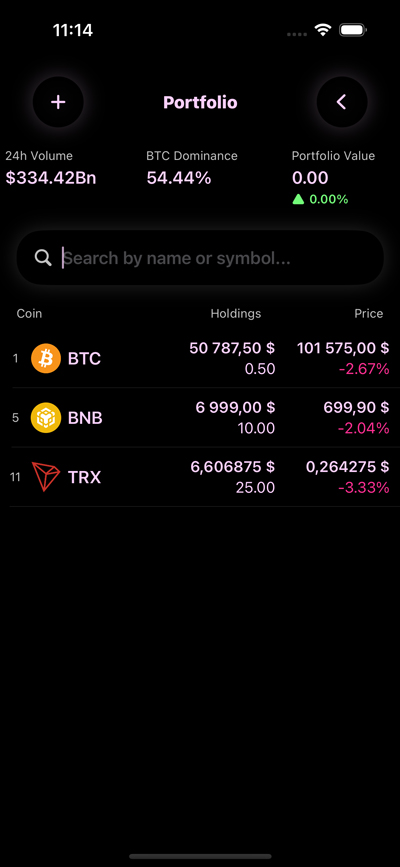
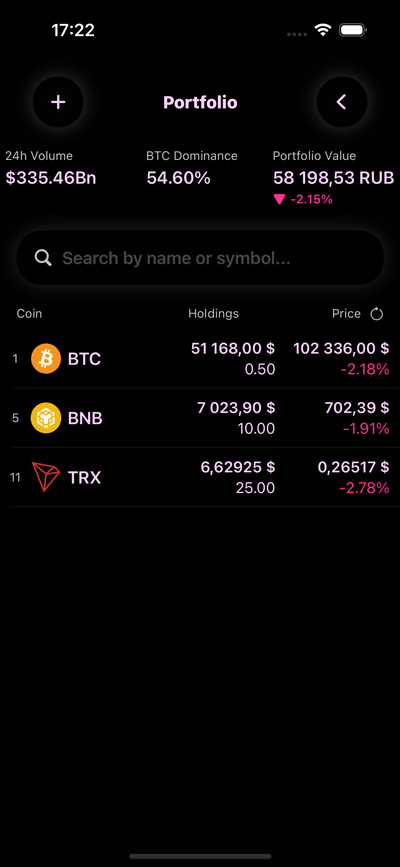
Refreshing List

diff --git a/SwiftUICrypto/Home/ViewModel/HomeViewModel.swift b/SwiftUICrypto/Home/ViewModel/HomeViewModel.swift
@@ -13,7 +13,7 @@ final class HomeViewModel: ObservableObject {
     @Published var statistics: [StatisticModel] = []
     @Published var allCoins: [CoinModel] = []
     @Published var portfolioCoins: [CoinModel] = []
-    
+    @Published var isLoading: Bool = false
     @Published var searchText: String = ""
     
     private let coinDataService = CoinDataService() //сервис получения данных о монетах
@@ -81,6 +81,7 @@ final class HomeViewModel: ObservableObject {
             .map(mapGlobalMarketData)
             .sink { [weak self] returnedStatsArray in
                 self?.statistics = returnedStatsArray
+                self?.isLoading = false
             }
             .store(in: &cancellables)
         
@@ -90,6 +91,12 @@ final class HomeViewModel: ObservableObject {
         portfolioDataService.updatePortfolio(coin: coin, amount: amount)
     }
     
+    func reloadData() {
+        isLoading = true
+        coinDataService.getCoins()
+        marketDataService.getData()
+        HapticManager.notify(type: .success) //устройство должно отдавать вибрацию
+    }
 }
 
 private extension HomeViewModel {
@@ -125,7 +132,7 @@ private extension HomeViewModel {
         portfolioCoins
             .map { coin -> Double in
                 let currentValue = coin.currentCostHoldings
-                let percentChange = coin.priceChangePercentage24H ?? 0 / 100 //????
+                let percentChange = (coin.priceChangePercentage24H ?? 0 / 100) / 100
                 let previousValue = currentValue / (1 + percentChange) //получаем стоимость каждой монеты 24H назад
                 return previousValue      //110 / (1 + 10%) = 100
             }

diff --git a/SwiftUICrypto/Home/Views/HomeView.swift b/SwiftUICrypto/Home/Views/HomeView.swift
@@ -96,6 +96,14 @@ private extension HomeView {
                 Text("Holdings")
             }
             Text("Price").frame(width: UIScreen.main.bounds.width / 3.5, alignment: .trailing)
+            Button {
+                withAnimation(.linear(duration: 2.0)) {
+                    vm.reloadData()
+                }
+            } label: {
+                Image(systemName: "goforward")
+            }
+            .rotationEffect(Angle(degrees: vm.isLoading ? 360 : 0), anchor: .center)
         }
         .font(.caption)
         .foregroundStyle(.secondaryText)
@@ -110,6 +118,9 @@ private extension HomeView {
             }
         }
         .listStyle(.plain)
+        .refreshable {
+            vm.reloadData()
+        }
     }
     
     var portfolioCoinsList: some View {

diff --git a/SwiftUICrypto/Utilities/HapticManager.swift b/SwiftUICrypto/Utilities/HapticManager.swift
@@ -1,0 +1,19 @@
+//
+//  HapticManager.swift
+//  SwiftUICrypto
+//
+//  Created by Алексей Колыченков on 19.12.2024.
+//
+
+import Foundation
+import SwiftUI
+
+final class HapticManager {
+    
+    ///Генератор обратно связи/отдачи
+    static private let generator = UINotificationFeedbackGenerator()
+    
+    static func notify(type: UINotificationFeedbackGenerator.FeedbackType) {
+        generator.notificationOccurred(type)
+    }
+}

diff --git a/SwiftUICrypto/Services/CoinDataService.swift b/SwiftUICrypto/Services/CoinDataService.swift
@@ -19,7 +19,7 @@ final class CoinDataService {
         getCoins()
     }
     
-    private func getCoins() {
+    func getCoins() {
         guard let url = URL(string: "https://api.coingecko.com/api/v3/coins/markets?vs_currency=usd&per_page=250&sparkline=true&price_change_percentage=24h") else {return}
         
         coinSubscription = NetworkManager.downloadData(for: url)

diff --git a/SwiftUICrypto/Services/MarketDataService.swift b/SwiftUICrypto/Services/MarketDataService.swift
@@ -18,7 +18,7 @@ final class MarketDataService {
         getData()
     }
     
-    private func getData() {
+    func getData() {
         guard let url = URL(string: "https://api.coingecko.com/api/v3/global") else { return }
       
         marketDataSubscription = NetworkManager.downloadData(for: url)
